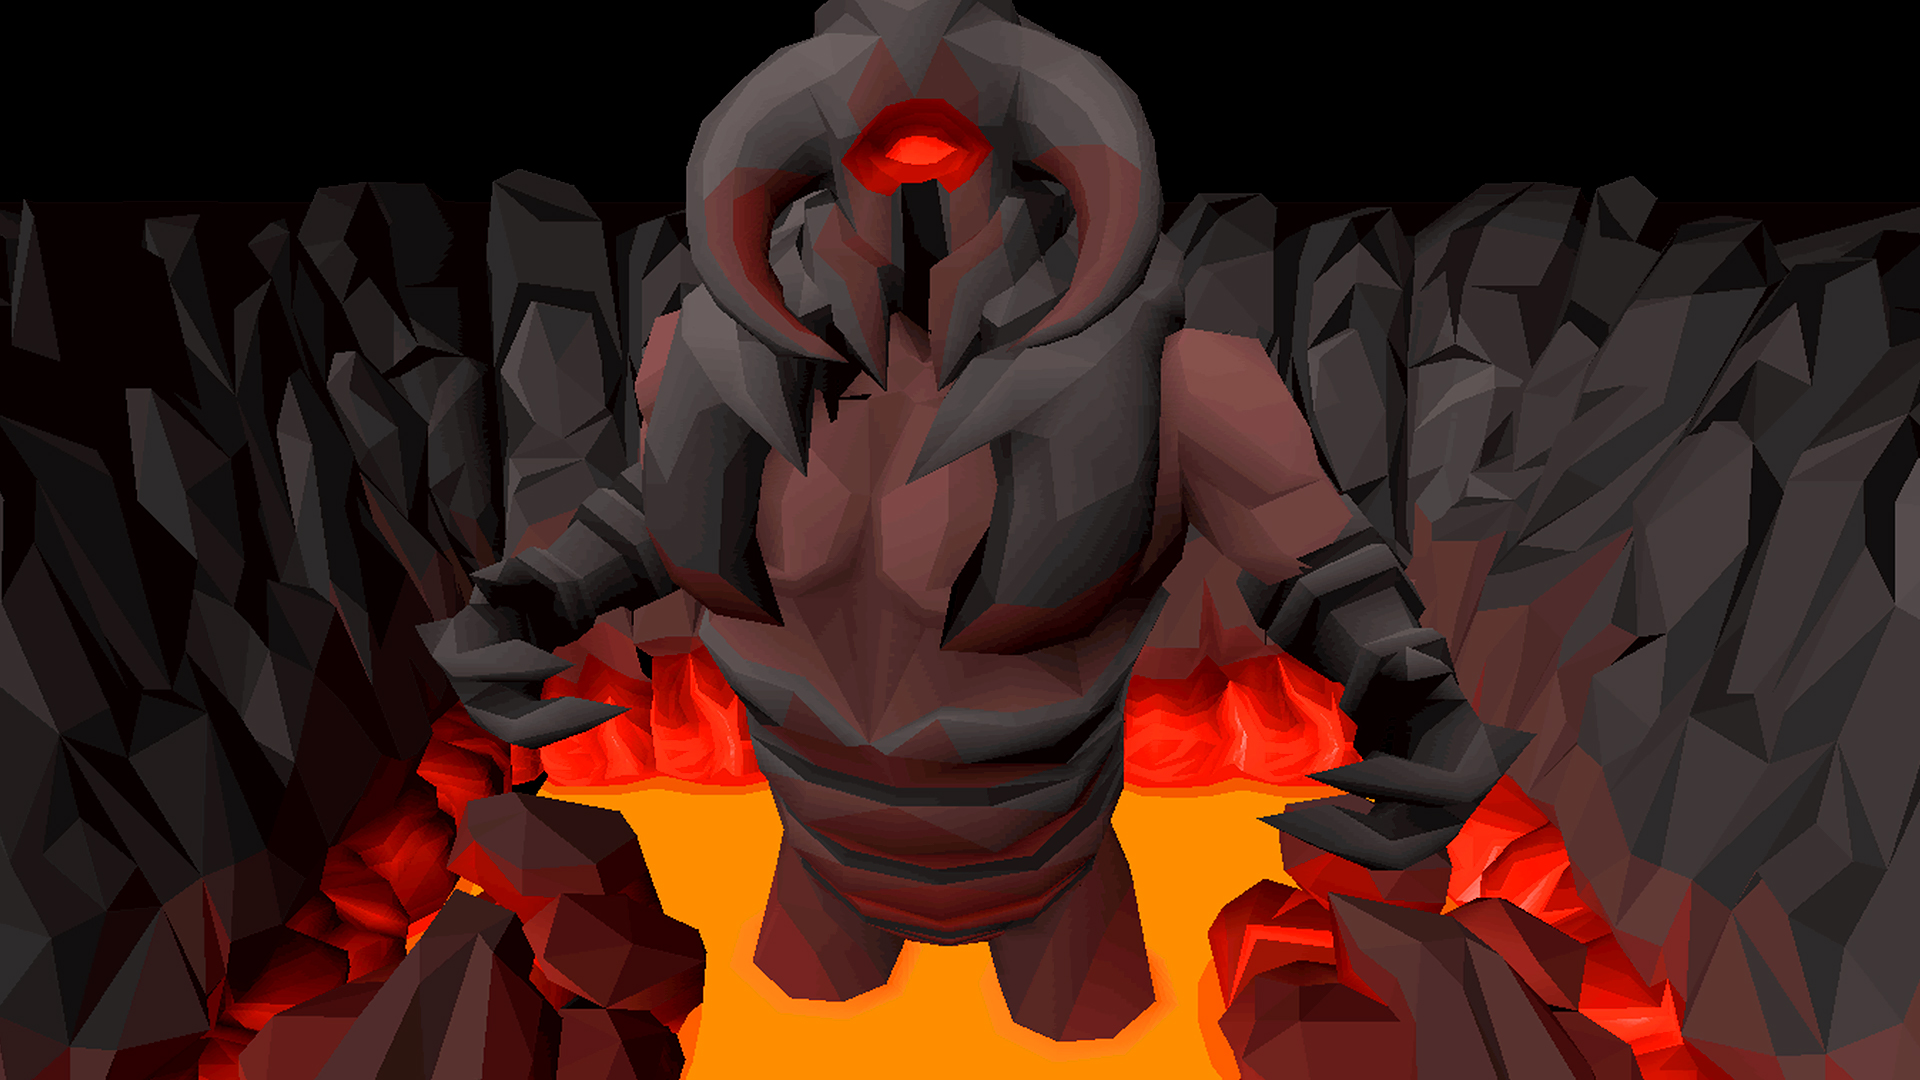
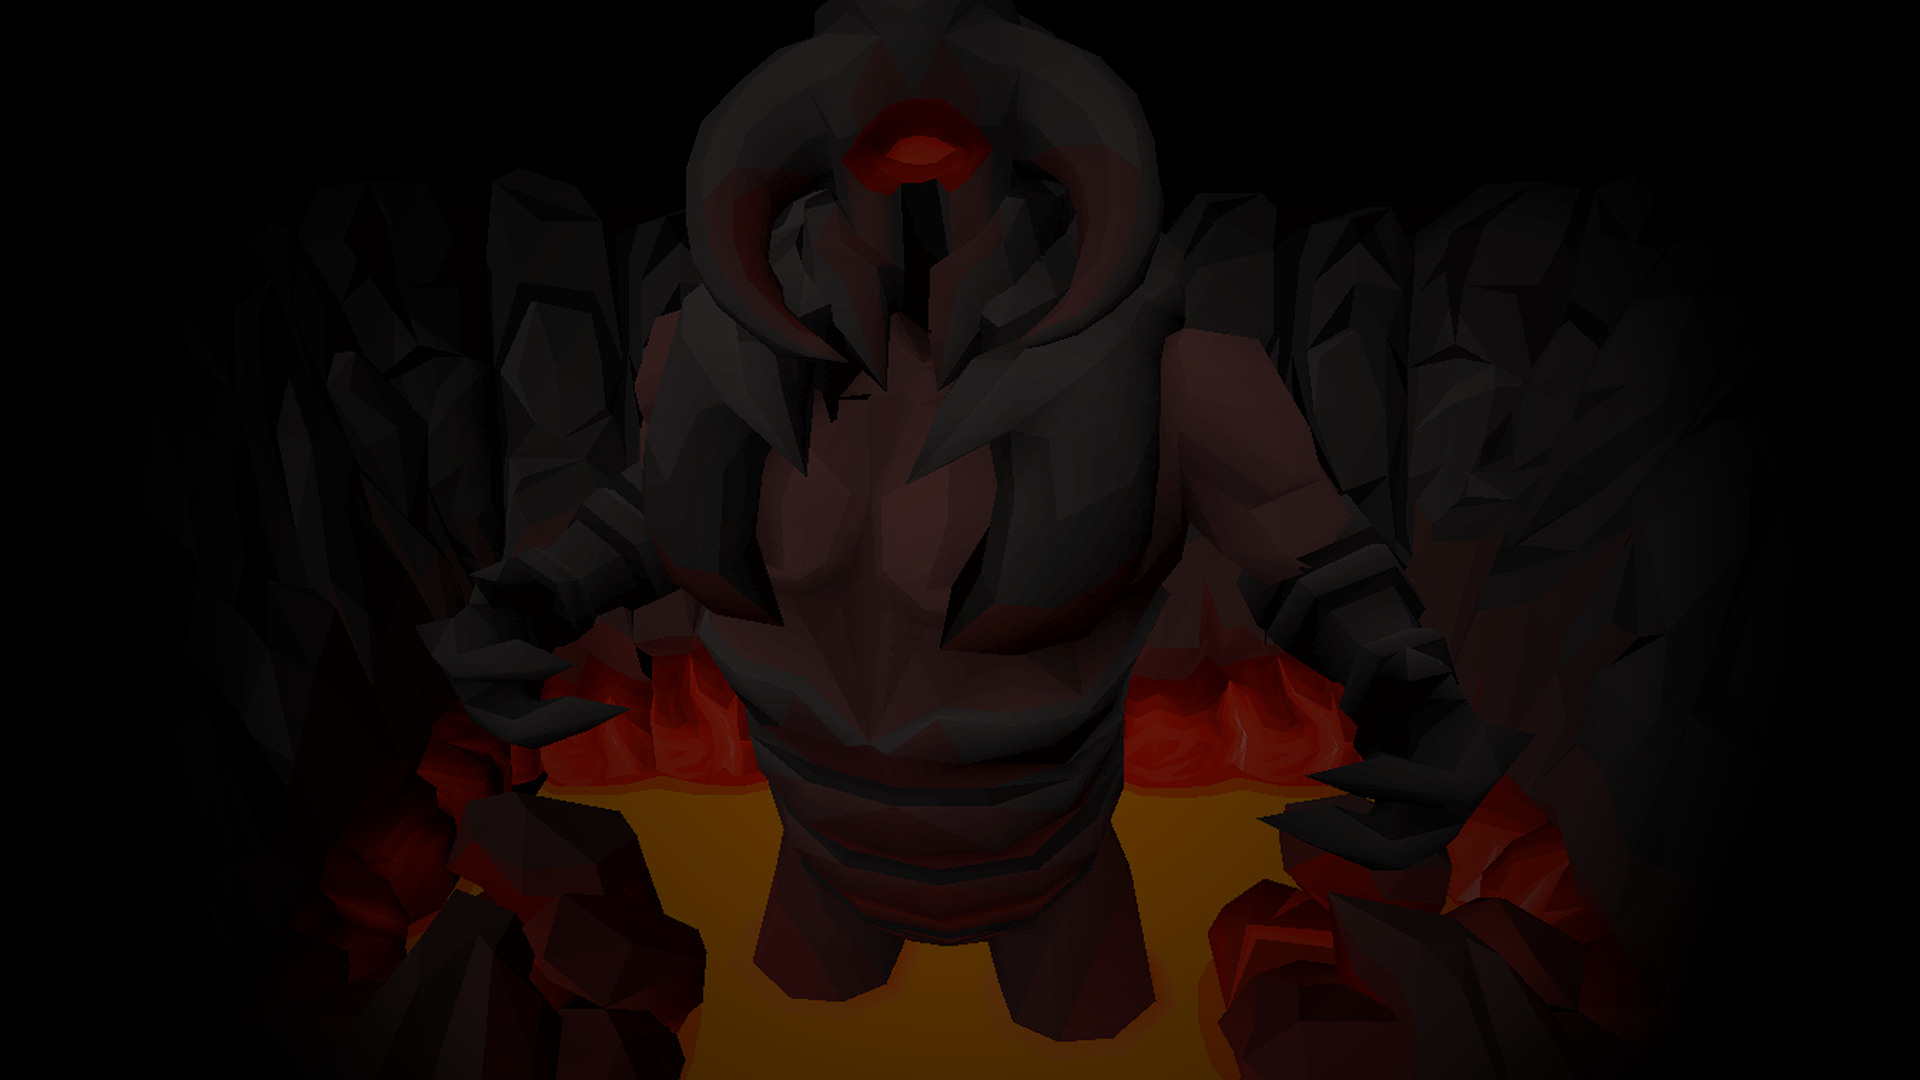
styleeeeesss

diff --git a/src/components/Navbar.module.scss b/src/components/Navbar.module.scss
@@ -9,11 +9,19 @@
 	align-items: center;
 	min-height: 50px;
 	max-height: 50px;
-	min-width: 100%;
-	background-color: $COLOR_DARK2;
-	box-shadow: -1px -27x 57px -4px rgba(0, 0, 0, 0.75);
-	-webkit-box-shadow: -1px -27px 57px -4px rgba(0, 0, 0, 0.75);
-	-moz-box-shadow: -1px -27px 57px -4px rgba(0, 0, 0, 0.75);
+	min-width: 100%;		
+
+	.bgimg {
+		z-index: 5;
+		position: absolute;
+		left: 0;
+		top: 0;
+		width: 100vw;      
+		//-webkit-mask-image:-webkit-gradient(linear, top, bottom, from(rgba(0,0,0,1)), to(rgba(0,0,0,0)));
+		mask-image: linear-gradient(to bottom, rgba(0,0,0,1) 0%, rgba(0,0,0,1) 55px, rgba(0,0,0,0) 90px);
+		pointer-events: none;
+		cursor: default;
+	}
 }
 
 .logotitlecontainer {
@@ -22,7 +30,6 @@
 	padding-left: 60px;
 	font-family: "Ubuntu Mono";
 	text-decoration: none;
-	background-color: $COLOR_DARK2;
 	display: flex;
 	flex-direction: row;
 	align-items: center;
@@ -30,16 +37,19 @@
 }
 
 .logo {
+	z-index: 10;
 	height: 50px;
 	width: 50px;
 	margin-right: 25px;
 }
 
 .title {
+	z-index: 10;
 	font-size: 32px;
 }
 
 .navButton {
+	z-index: 10;
 	font-family: "Carrois Gothic SC";
 	text-transform: uppercase;
 	line-height: 1cm;
@@ -53,6 +63,6 @@
 	font-weight: bold;
 
 	&:hover {
-		background-color: $COLOR_DARK2_HOVER;
+		text-decoration: underline;
 	}
 }

diff --git a/src/shared.scss b/src/shared.scss
@@ -28,17 +28,18 @@ $COLOR_ERROR_BORDER: rgb(70, 70, 70);
 	justify-content: center;
 	align-items: center;
 	text-align: center;
-	min-width: 400px;
-	max-width: 400px;
-	border-radius: 10px;
+	/*
 	box-shadow: 6px 7px 12px -7px rgba(0, 0, 0, 0.66);
 	-webkit-box-shadow: 6px 7px 12px -7px rgba(0, 0, 0, 0.66);
 	-moz-box-shadow: 6px 7px 12px -7px rgba(0, 0, 0, 0.66);
-	background-color: $COLOR_DARK2;
+	border: 3px solid $COLOR_DARK2_BORDER;
+	*/
+	border-radius: 10px;
+	background-color: adjust-color(black, $alpha: -0.5);
+	border: 0;
 	padding: 35px;
 	padding-left: 35px;
 	padding-right: 35px;
-	border: 3px solid $COLOR_DARK2_BORDER;
 
 	animation: fadeIn ease 200ms;
 	-webkit-animation: fadeIn ease 200ms;
@@ -51,14 +52,15 @@ $COLOR_ERROR_BORDER: rgb(70, 70, 70);
 	text-transform: uppercase;
 	font-size: 34px;
 	margin-bottom: 15px;
+    text-align: center;
 }
 
 .fadein {
-	animation: fadeIn ease 200ms;
-	-webkit-animation: fadeIn ease 200ms;
-	-moz-animation: fadeIn ease 200ms;
-	-o-animation: fadeIn ease 200ms;
-	-ms-animation: fadeIn ease 200ms;
+	animation: fadeIn ease 300ms;
+	-webkit-animation: fadeIn ease 300ms;
+	-moz-animation: fadeIn ease 300ms;
+	-o-animation: fadeIn ease 300ms;
+	-ms-animation: fadeIn ease 300ms;
 }
 
 @keyframes fadeIn {

diff --git a/src/global.scss b/src/global.scss
@@ -12,35 +12,35 @@ html {
 		sans-serif;
 		
 	background: url("./assets/bg.jpg") no-repeat center center fixed; 
-	background-position: 40% 50px;
+	background-position: 0px 0px;
 	-webkit-background-size: cover;
 	-moz-background-size: cover;
 	-o-background-size: cover;
 	background-size: cover;
-	//background-image: url("./assets/bg.jpg");
-	//background-size: 110vw 110vh;
-	//background-position: 45% 50px;
 }
 
 body {
-	overflow-y: scroll;
 	margin: 0;
 	-webkit-font-smoothing: antialiased;
 	-moz-osx-font-smoothing: grayscale;
 	min-height: 100vh;
+	max-height: 100vh;
+	overflow-y: hidden;
 }
 
 #root {
 	display: flex;
 	flex-direction: column;
+	/*
 	background: rgb(0,0,0);
 	background: radial-gradient(circle, rgba(0,0,0,0.65) 0%, rgba(0,0,0,1) 90%) no-repeat center center fixed; 	
 	-webkit-background-size: cover;
 	-moz-background-size: cover;
 	-o-background-size: cover;
-	background-size: cover;
-	min-width: 100vw;
+	background-size: cover;*/
 	min-height: 100vh;
+	max-height: 100vh;
+	width: 100%;
 }
 
 * {

diff --git a/src/components/ApiKeyGenerator.tsx b/src/components/ApiKeyGenerator.tsx
@@ -30,13 +30,16 @@ export const ApiKeyGenerator: React.FC = () => {
     }
     if (key.length > 0){
         return (
-            <>
+            <div className={css.container}>
                 <div className={css.secretKeyLabelDiv}>
                     <span className={classes(css.secretKeyLabel, 'fadein')}>{keyLabel}</span>
                 </div>
                 <input className={css.secretKeyField} type="text" value={key} onFocus={() => copyToClipboard()}/>
-            </>
+            </div>
         )
     }
-    return (<button onClick={() => generateKey()}>Generate secret API key</button> );
+    return (
+        <div className={css.container}>
+            <button onClick={() => generateKey()}>Generate secret API key</button> 
+        </div>);
 }

diff --git a/src/pages/HomePage.module.scss b/src/pages/HomePage.module.scss
@@ -12,6 +12,7 @@
 }
 
 .slogan {
+    text-align: center;
     margin-top: -12px;
     font-size: 120%;
     font-weight: bold;
@@ -21,8 +22,12 @@
     display: flex;
     flex-direction: column;
     align-items: center;
-    min-width: 500px;
     max-width: 650px;
+
+    @media only screen and (max-width: 650px) {
+        max-width: 100vw;
+    }
+
     margin-top: 45px;
     margin-bottom: 250px;
 
@@ -54,7 +59,10 @@
         display: flex;
         max-width: 450px;
         margin: auto;
-        margin-top: 12px;
+        margin-top: 12px;    
+        @media only screen and (max-width: 650px) {
+            max-width: 100vw;
+        }
     }
 }
 

diff --git a/src/components/Navbar.tsx b/src/components/Navbar.tsx
@@ -3,11 +3,13 @@ import { Link } from 'react-router-dom';
 import css from './Navbar.module.scss';
 import { ReactComponent as KaakkiLogo } from './../assets/kaakki.svg';
 import { MainContext } from '../contexts/MainContext';
+import BGImage from '../assets/bg.jpg'
 
 export const Navbar: React.FC = () => {
 	const { authenticated } = useContext(MainContext);
 	return (
 		<nav className={css.navbar}>
+			<img className={css.bgimg} src={BGImage} alt="background"/>
 			<Link to={'/'} className={css.logotitlecontainer}>
 				<KaakkiLogo className={css.logo} />
 				<span className={css.title}>PAISTI PLUGINS</span>

diff --git a/src/components/ApiKeyGenerator.module.scss b/src/components/ApiKeyGenerator.module.scss
@@ -1,9 +1,14 @@
 @import "./../shared.scss";
 
+.container {
+    min-width: 300px;
+    max-width: 300px;
+}
 .secretKeyLabelDiv {
     display: flex;
     flex-direction: column;
     justify-content: center;
+    align-items: center;
     min-height: 35px;
 }
 
@@ -15,12 +20,15 @@
 
 .secretKeyField {
     padding-left: 0;
+    padding-right: 0;
     text-align: center;
     align-items: center;
     cursor: pointer;
 }
 
 .spinnerContainer {
-    min-height: 77px;
-    max-height: 77px;
+    min-width: 300px;
+    max-width: 300px;
+    min-height: 70px;
+    max-height: 70px;
 }

diff --git a/src/components/Layout.module.scss b/src/components/Layout.module.scss
@@ -1,8 +1,19 @@
+@import "./../shared.scss";
+
 .container {
 	display: flex;
 	flex-direction: column;
 	justify-content: flex-start;
 	align-items: center;
-	margin-top: 80px;
+	padding-top: 60px;
 	flex-grow: 1;
+	overflow-y: scroll;
+
+	& > * {
+		animation: fadeIn ease 300ms;
+		-webkit-animation: fadeIn ease 300ms;
+		-moz-animation: fadeIn ease 300ms;
+		-o-animation: fadeIn ease 300ms;
+		-ms-animation: fadeIn ease 300ms;
+	}
 }

diff --git a/src/components/DiscordLoginBox.module.scss b/src/components/DiscordLoginBox.module.scss
@@ -11,8 +11,7 @@
 	}
 
 	&:hover{
-		background-color: $COLOR_DARK2_HOVER;
-		border: 3px solid $COLOR_DARK2_HOVER_BORDER;
+		background-color: $COLOR_DARK2;
 	}
 }
 

diff --git a/src/components/ProfileView.module.scss b/src/components/ProfileView.module.scss
@@ -2,6 +2,7 @@
 
 .container {
 	@extend .genericContainer;
+	min-width: 370px;
 }
 
 .buttonGroup{
